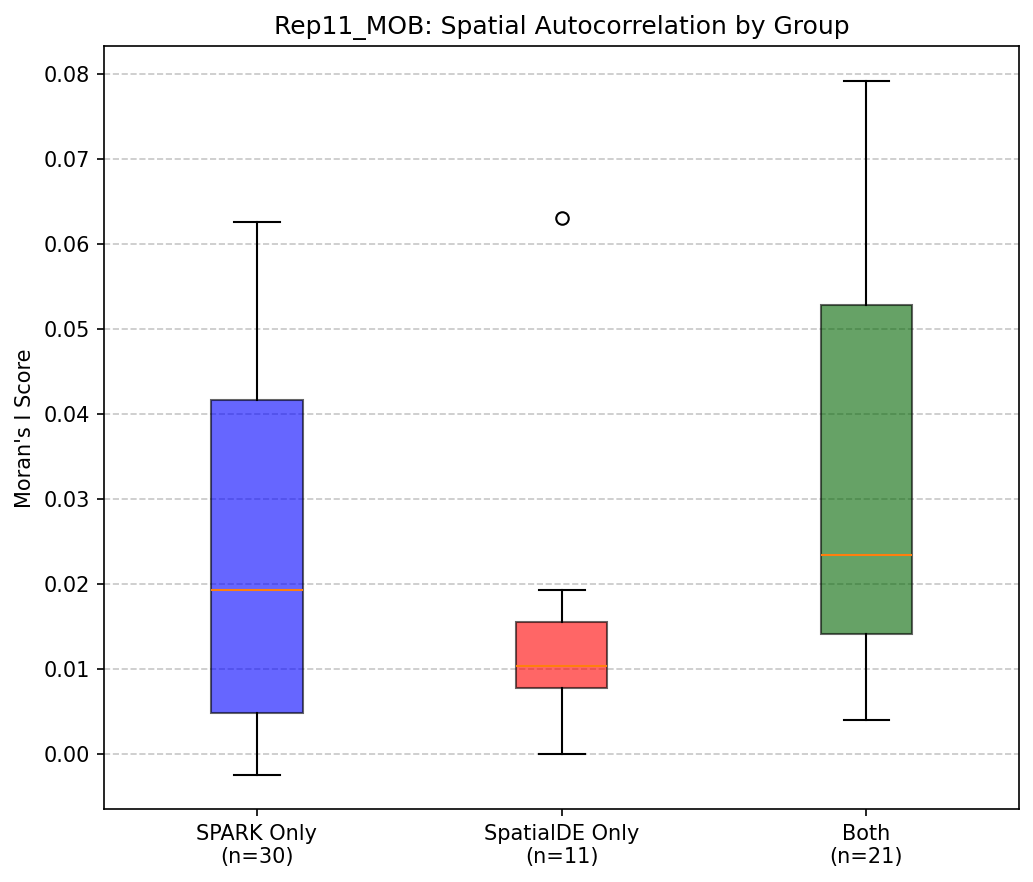
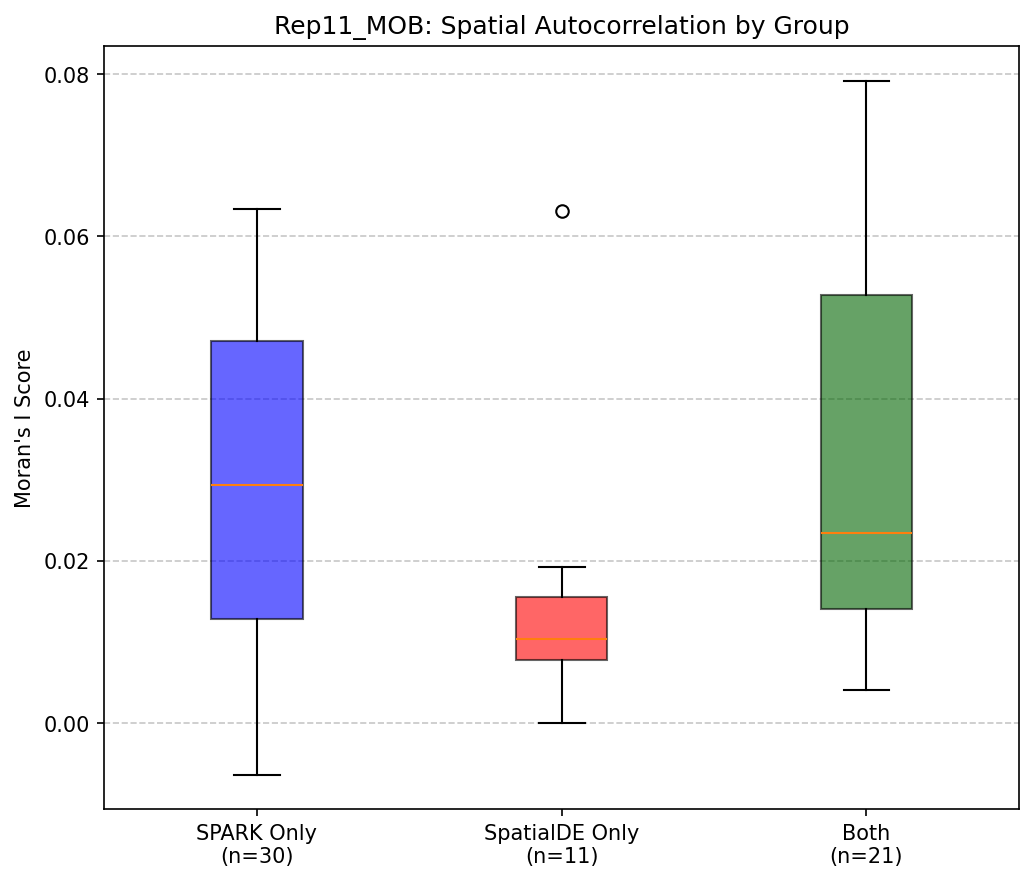
Fixed SEQFISH morans plot

diff --git a/compare.py b/compare.py
@@ -23,8 +23,15 @@ def rank_biased_overlap(list1, list2, p=0.9):
     return (1 - p) * score
 
 def calculate_morans_i(expr, coords):
+    # Handle any potential NaNs in the expression data by converting them to 0
+    expr = np.nan_to_num(expr, nan=0.0) 
+    
     n = len(expr)
     dists = squareform(pdist(coords))
+    
+    # NEW: Prevent division by zero from exact duplicate coordinates
+    dists[dists == 0] = 1e-9 
+    
     np.fill_diagonal(dists, np.inf)
     w = 1.0 / dists
     np.fill_diagonal(w, 0)